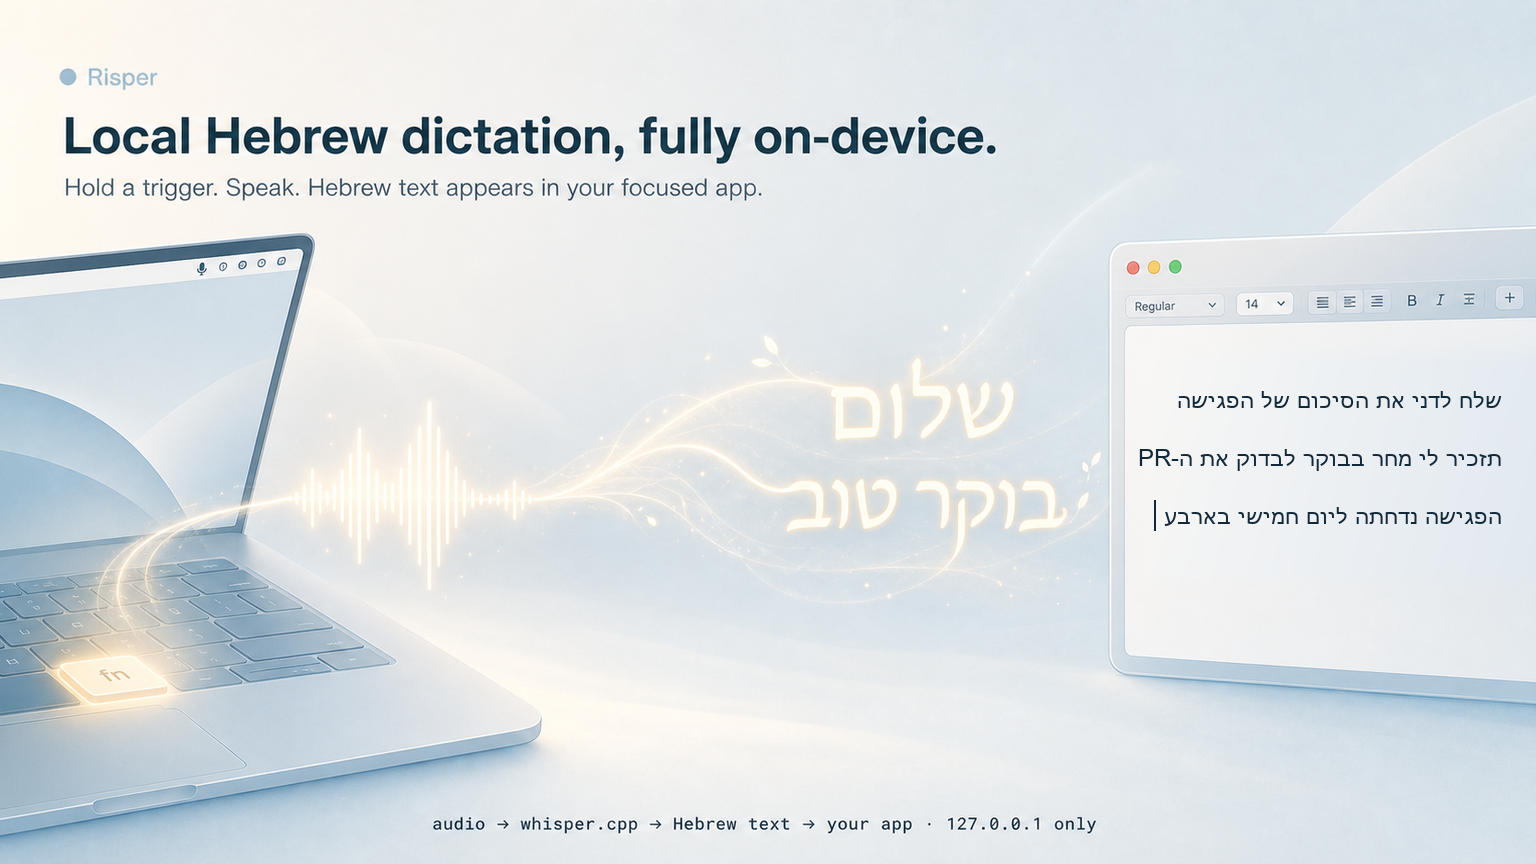
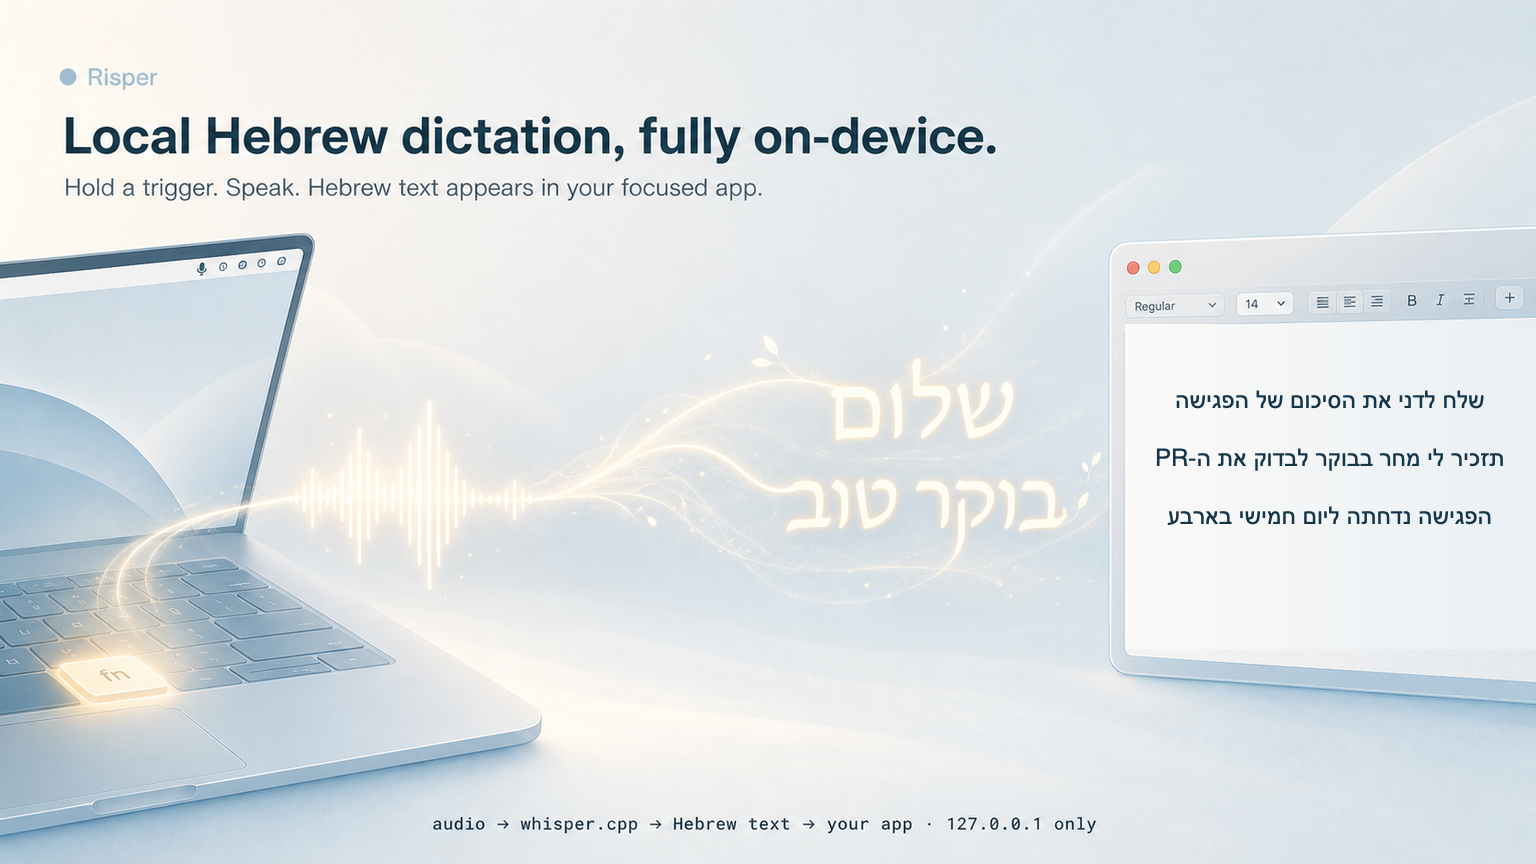
adjusted readme and hero

Changed region(s): [[0.75, 0.5, 0.9688, 0.5625], [0.75, 0.5938, 0.9688, 0.625], [0.75, 0.4375, 0.9688, 0.4688]]

diff --git a/README.md b/README.md
@@ -9,6 +9,24 @@ path and no transcript upload path.
 
 ![Risper local Hebrew dictation hero](docs/assets/risper-readme-hero.png)
 
+## Install For Non-Developers
+
+Use this path for manual internal pilots. You do not need Xcode, Homebrew, the
+source repo, a separate `whisper.cpp` build, or a separate model download.
+
+1. Open `dist/Risper-internal-offline-arm64.dmg`.
+2. Drag `Risper.app` to Applications.
+3. Launch `/Applications/Risper.app`.
+4. If macOS blocks first launch, right-click `Risper.app`, choose `Open`, and confirm.
+5. Grant Microphone permission when prompted.
+6. Grant Accessibility permission in System Settings > Privacy & Security > Accessibility.
+7. Quit and relaunch Risper after granting Accessibility permission.
+
+The internal DMG bundles `Risper.app`, `whisper-server`, the required
+`whisper.cpp` dylibs, and the Ivrit.ai Hebrew model. It is locally signed for
+pilot testing, but it is not Developer ID-signed or notarized. A first-launch
+Gatekeeper override is expected until a Developer ID distribution path is added.
+
 ## What It Does
 
 - Records only while you hold the dictation trigger.
@@ -18,11 +36,25 @@ path and no transcript upload path.
 - Inserts the cleaned transcript into the focused app with a temporary paste.
 - Restores your clipboard after insertion whenever the pasteboard is unchanged.
 
-Risper is currently a source-built MVP, not a polished public installer. It is
-best suited for developers and internal testers who are comfortable building a
-macOS app locally.
+Risper now has an internal offline DMG for pilot installs. Internal testers can
+install the app without the source repo, Xcode, Homebrew, or local build tools.
+Developer tools are still required only on the machine that builds the app or
+creates a new DMG.
 
 ## Prerequisites
+
+For internal testers installing the offline DMG:
+
+- Apple Silicon Mac.
+- macOS 26 or newer.
+- Ability to grant Microphone and Accessibility permissions in macOS System Settings.
+
+The internal offline DMG bundles `Risper.app`, `whisper-server`, the required
+`whisper.cpp` dylibs, and the Ivrit.ai Hebrew model. Testers do not need Xcode,
+Homebrew, `cmake`, `ffmpeg`, `jq`, the source checkout, or a separate model
+download.
+
+For developers building from source or creating a new internal DMG:
 
 - Apple Silicon Mac.
 - macOS 26 or newer. The Swift package currently targets macOS 26.0.
@@ -30,7 +62,6 @@ macOS app locally.
 - Homebrew for `cmake`, `ffmpeg`, and `jq`.
 - A local `whisper.cpp` build with `whisper-server`.
 - The Ivrit.ai `whisper-large-v3-turbo-ggml` model file.
-- Ability to grant Microphone and Accessibility permissions in macOS System Settings.
 
 Install the common command-line tools:
 
@@ -41,6 +72,10 @@ brew install cmake ffmpeg jq
 `lsof`, `say`, `codesign`, and `security` are provided by macOS.
 
 ## Local ASR Setup
+
+This section is only needed for developers building from source or creating a
+new internal DMG. The internal offline DMG already includes the ASR runtime and
+model.
 
 Risper looks for `whisper-server` in the bundled app resources, in
 `third_party/whisper.cpp/build/bin/whisper-server`, or in the path supplied by
@@ -67,7 +102,10 @@ curl -L \
 The model is large, so the initial download can take a while. After setup,
 normal dictation runs locally and can work offline.
 
-## Build And Run
+## Build And Run From Source
+
+Use this path for development. Internal testers should install from the DMG
+instead.
 
 Build the Swift package:
 
@@ -95,6 +133,31 @@ script/build_and_run.sh --verify
 ```
 
 The staged app is written to `dist/Risper.app`.
+
+## Package Internal DMG
+
+Create a stable local code-signing identity before packaging. This helps macOS
+keep Accessibility trust more stable across internal builds:
+
+```bash
+script/setup_local_codesign.sh
+```
+
+Build the release app, bundle the local ASR runtime and model, sign the app, and
+create the offline DMG:
+
+```bash
+script/package_internal.sh
+```
+
+The package is written to:
+
+```text
+dist/Risper-internal-offline-arm64.dmg
+```
+
+The packaging machine must have the local `whisper.cpp` build and Ivrit.ai model
+available. Machines that install from the DMG do not.
 
 ## Permissions
 
@@ -161,16 +224,25 @@ If the menu says `Model: Missing`, confirm the model exists at:
 ~/Library/Application Support/Risper/Models/ivrit-large-v3-turbo/ggml-model.bin
 ```
 
-If the menu says `ASR: Missing whisper-server`, build `whisper.cpp` or set
-`RISPER_WHISPER_SERVER` to an executable `whisper-server` path.
+If the menu says `ASR: Missing whisper-server` after installing the internal
+DMG, reinstall from the latest DMG or rebuild the package. If running from
+source, build `whisper.cpp` or set `RISPER_WHISPER_SERVER` to an executable
+`whisper-server` path.
 
 If `fn Long-Press` says Accessibility is required, grant Accessibility permission
-to the staged `dist/Risper.app`, then quit and relaunch Risper.
+to `/Applications/Risper.app` for DMG installs or to the staged `dist/Risper.app`
+for source-built runs. Then quit and relaunch Risper.
 
 If dictation records but nothing appears in the target app, check Accessibility
 permission and try a simple target such as TextEdit first.
 
-For runtime logs:
+For runtime logs from the installed app:
+
+```bash
+/usr/bin/log stream --info --style compact --predicate 'subsystem == "com.risper.Risper"'
+```
+
+For source-built development logs:
 
 ```bash
 script/build_and_run.sh --telemetry
@@ -216,6 +288,6 @@ The MVP intentionally stays narrow:
 - No transcript editor.
 - No cloud fallback.
 - No updater.
-- No public notarized installer yet.
+- Internal offline DMG only; no public notarized installer yet.
 
 See [`specs.md`](specs.md) for the product and architecture source of truth.